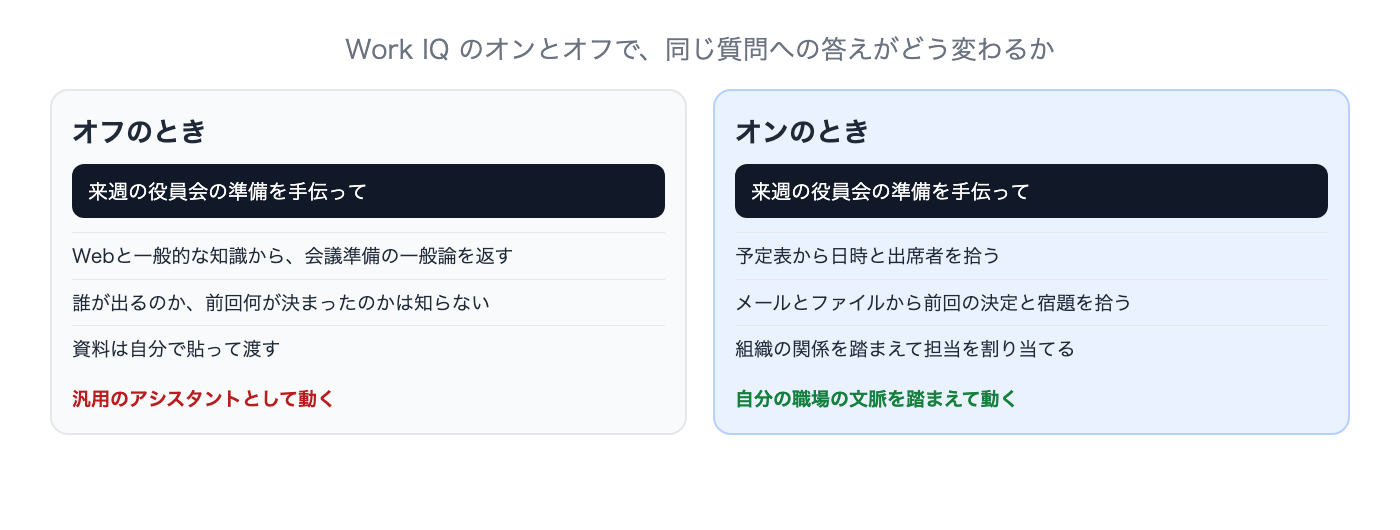
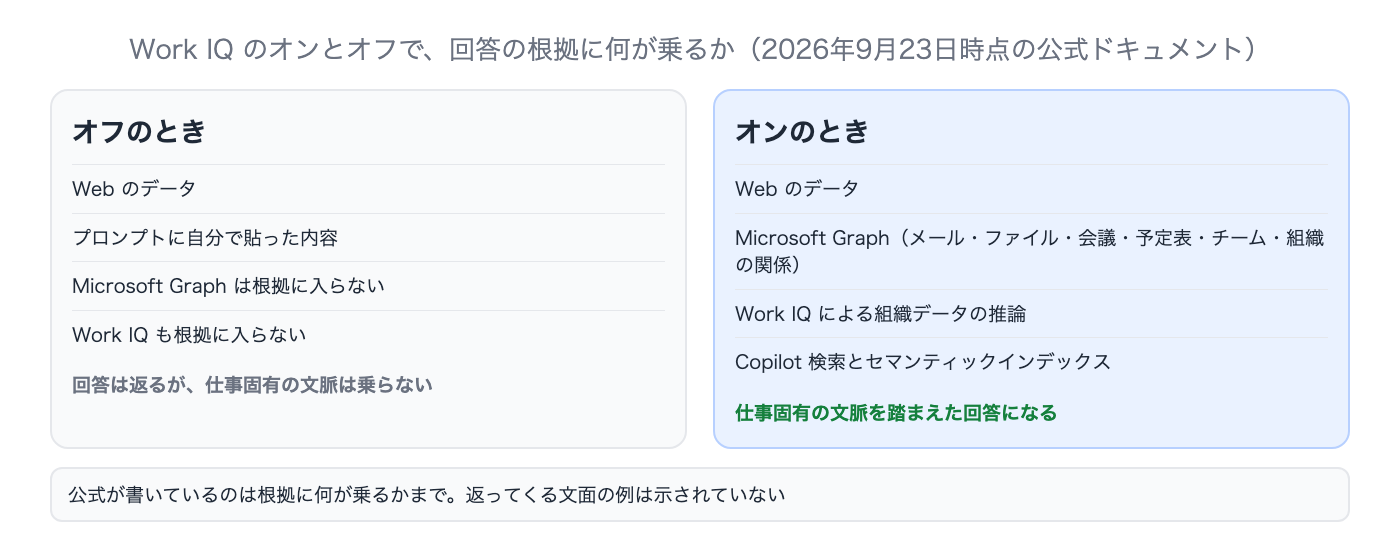
copilot-guide: 添削の5点＋軽微1点を反映
Work IQ の図を応答例から根拠の図に差し替え、見分け方（製品内ラベル）を追記、
価格は公式ページへのリンクで逃げ道を作り、経験談に読める1文を削除。

diff --git a/media/copilot-guide/index.html b/media/copilot-guide/index.html
@@ -95,12 +95,11 @@ b.addEventListener('click',function(){var o=t.classList.toggle('is-open');b.text
 <p>3つのライセンスで変わるのは、答えを作るときに何を見に行けるかです。</p>
 <figure class="post-figure"><img src="/media/images/copilot-guide/cp_03_fig_tiers.png" alt="Copilotの3つのライセンスの比較図。Copilot Chat基本はWebのデータ中心、Microsoft 365 Copilot基本はアプリ内の標準アクセス、プレミアムは優先アクセスと組織データの根拠付けが付く" loading="lazy"><figcaption>3つのライセンスで変わるもの</figcaption></figure>
 
-<p>どれを使っているかが分かると、できないことの理由もはっきりします。</p>
+<p>見分ける手がかりは画面の中にあります。公式ドキュメントによると、WordやExcelなどのMicrosoft 365アプリとMicrosoft Copilotアプリには<strong>製品内ラベル</strong>が表示され、どのCopilotのエクスペリエンスなのかを利用者が識別できるようになっています。それでも分からない場合は、管理者に割り当てられているライセンスを確認します。</p>
 <p>共通しているのは土台のほうです。どの階層も、大規模言語モデルによる自然言語の理解と生成、Webや組織データによる根拠付け、そして<strong>利用者のアクセス許可の範囲に限定されたアクセス</strong>という3つで支えられていると公式ドキュメントに書かれています。権限のないファイルが回答に混ざることはありません。</p>
-<p>モデルについての注記もあります。Anthropicのサブプロセッサは該当するMicrosoft 365ライセンスのエクスペリエンスでのみ使え、既定で全員が使えるわけではありません。</p>
+<p>回答を作るモデルもライセンスで変わります。公式ドキュメントによれば、Anthropicのモデルは該当するMicrosoft 365ライセンスの機能でのみ使え、既定で全員が使えるわけではないと書かれています。</p>
 <figure class="post-figure"><img src="/media/images/copilot-guide/cp_01_overview.jpg" alt="Microsoft Learnの日本語ドキュメント。Copilot ChatとMicrosoft Copilotは、データの根拠付け、統合の深さ、ライセンスが異なると書かれている" loading="lazy"><figcaption>公式ドキュメントの冒頭にある説明</figcaption></figure>
 
-<p>導入の相談で食い違いが起きるのは、たいていこの前提の共有漏れです。</p>
 <h2 id="s2">Copilot Chatでできること</h2>
 <p>Copilot Chat（基本）は、対象のMicrosoft 365ライセンスに含まれるベースラインです。主にWebのデータを使い、組織のコンテンツの利用を制限したチャットになります。</p>
 <p>入口は複数あります。</p>
@@ -159,17 +158,15 @@ b.addEventListener('click',function(){var o=t.classList.toggle('is-open');b.text
 <h2 id="s4">Work IQをオンにすると何が変わるか</h2>
 <p>社内のデータを踏まえた回答が返るのは、プレミアムの階層です。根拠付けに使われるのはMicrosoft Graph、Work IQ、Copilot検索、セマンティックインデックスの4つになります。</p>
 <p>Microsoft Graphが持ち込むのは、メール、ファイル、会議、予定表、チーム、組織の関係といった文脈です。Work IQはその上で、エージェントが組織のデータやコンテンツやツールについて推論できるようにする層になります。</p>
-<figure class="post-figure"><img src="/media/images/copilot-guide/cp_04_fig_workiq.png" alt="Work IQのオンとオフの比較図。オフでは会議準備の一般論しか返らないのに対し、オンでは予定表やメールやファイルから出席者と前回の決定を拾って答える" loading="lazy"><figcaption>Work IQのオンとオフで変わる答え</figcaption></figure>
+<figure class="post-figure"><img src="/media/images/copilot-guide/cp_04_fig_workiq.png" alt="Work IQのオンとオフで回答の根拠に何が乗るかの図。オフではWebと自分で貼った内容だけ、オンではMicrosoft GraphとWork IQとCopilot検索とセマンティックインデックスが加わる" loading="lazy"><figcaption>Work IQのオンとオフで根拠に乗るもの</figcaption></figure>
 
-<p>この差は、依頼の文面を工夫しても埋まりません。</p>
-<p><strong>Work IQはオンとオフを切り替えられます</strong>。オフにすると、回答はMicrosoft GraphとWork IQに基づかなくなります。答えは返ってきますが、仕事固有の文脈は乗りません。思ったより一般論しか返ってこないときに、まず見るべき設定です。</p>
+<p>この差は依頼の文面を工夫しても埋まりません。<strong>Work IQはオンとオフを切り替えられます</strong>。オフにすると、回答はMicrosoft GraphとWork IQに基づかなくなります。答えは返ってきますが、仕事固有の文脈は乗りません。思ったより一般論しか返ってこないときに、まず見るべき設定です。</p>
 <p>なお、Work IQ APIは別物です。カスタムのアプリやエージェントや統合のために、独立して購入して使う従量課金のサービスと位置づけられています。</p>
 <h2 id="s5">エージェントと従量課金の線</h2>
 <p>エージェントはCopilotを特定の用途に絞った形で、業務プロセスの自動化まで担当します。サポートページにはリサーチツールのエージェントや、Word・Excel・PowerPointのエージェントの案内が並びます。</p>
 <figure class="post-figure"><img src="/media/images/copilot-guide/cp_02_support.jpg" alt="Microsoft Copilotの日本語サポートページ。作業の開始、チャット、Agentsの3つのカードが並び、Agentsにはリサーチツールエージェントの案内がある" loading="lazy"><figcaption>公式サポートの入口</figcaption></figure>
 
-<p>課金の線は、使うデータの種類で引かれています。</p>
-<p>Copilot Chat（基本）とMicrosoft 365 Copilot（基本）では、Webのデータを使うエージェントにアクセスでき、<strong>作業データを使うエージェントは従量課金</strong>です。プレミアムではWebと作業データの両方を使うエージェントへのアクセスが含まれます。</p>
+<p>課金の線は使うデータの種類で引かれています。Copilot Chat（基本）とMicrosoft 365 Copilot（基本）では、Webのデータを使うエージェントにアクセスでき、<strong>作業データを使うエージェントは従量課金</strong>です。プレミアムではWebと作業データの両方を使うエージェントへのアクセスが含まれます。</p>
 <p>プレミアムにはMicrosoft Copilot Coworkも付きますが、こちらも使用量ベースの課金です。Coworkは利用者に代わってMicrosoft 365の環境全体でタスクを実行します。</p>
 <h2 id="s6">個人と職場で入口が違う</h2>
 <p>同じCopilotという名前でも、サインインしているアカウントの種類で入口が分かれます。</p>
@@ -184,6 +181,7 @@ b.addEventListener('click',function(){var o=t.classList.toggle('is-open');b.text
 <li>Microsoft Purview。機微度でデータを分類してラベルを付け、不正な共有や漏洩を防ぎ、プロンプトと応答を確認する</li>
 </ol>
 <p>導入後の定着を見るなら、使用状況レポートで利用の様子を追い、組織のメッセージ機能で日常の業務の流れの中に案内を出す、という手順が案内されています。</p>
+<p>ライセンスごとの価格は変わることがあるため、契約の前に<a href="https://www.microsoft.com/ja-jp/microsoft-365/copilot">Microsoft 365 Copilotの公式ページ</a>で確認してください。</p>
 <h2 id="s8">AI検索での見え方は別の話</h2>
 <p>社内でCopilotを使いこなすことと、自社の情報がAIの回答に出てくるかどうかは別の問題です。後者はAIがたどれる形で情報が置かれているかで決まります。考え方は<a href="https://nito-0210.com/media/ai-search-first-steps/">AI検索対策は何から始めるかの記事</a>にまとめています。</p>
 <h2 id="s9">よくある質問</h2>
